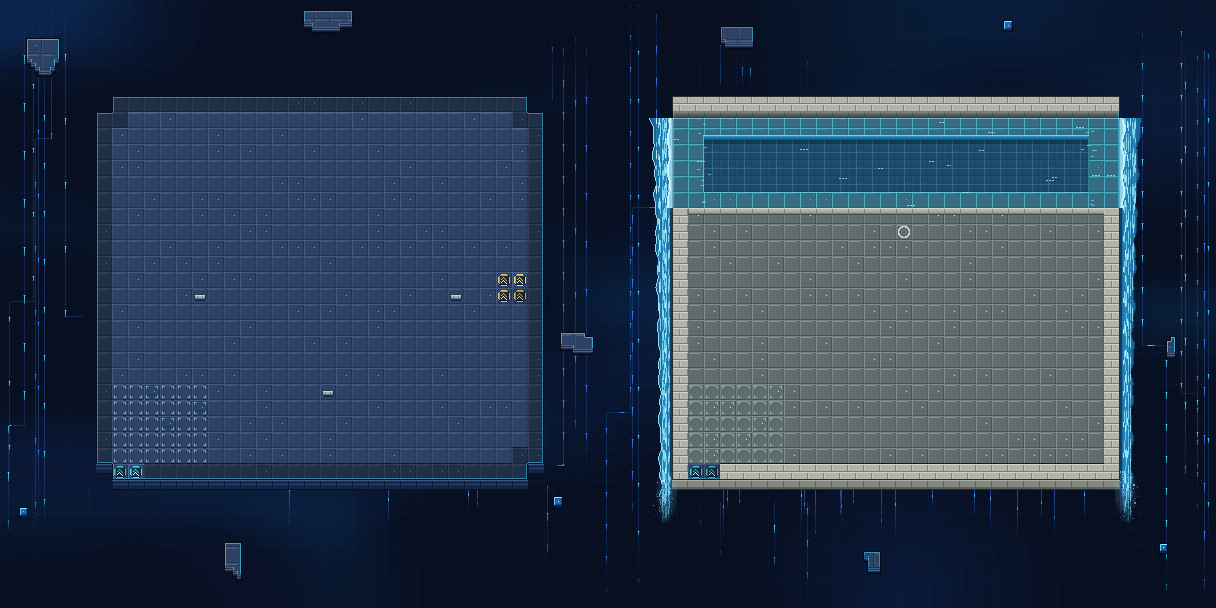
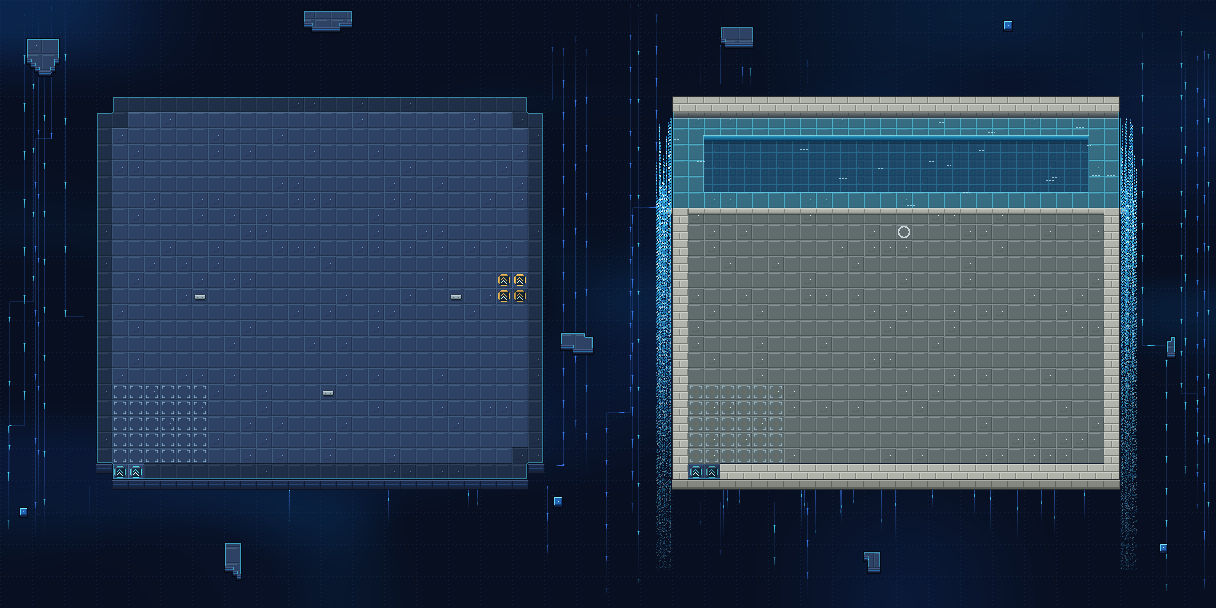
Karte 19: Datenstrom als Ueberlauf an den offenen Beckenseiten (Nutzerwahl)
Claude-Session: https://claude.ai/code/session_01SaoYHKhnro4LFcPJqjaPsq

Changed region(s): [[0.9062, 0.1875, 0.9375, 0.9375], [0.5312, 0.1875, 0.5625, 0.9062]]

diff --git a/tools/karte19_bauen.py b/tools/karte19_bauen.py
@@ -354,7 +354,7 @@ def ueberlauf(a, wasser, land, frame):
                 mix(Y, aussen(d), weiss, 0.9)
 
 
-FALL = os.environ.get('K19_FALL', 'vorhang')
+FALL = os.environ.get('K19_FALL', 'daten')                     # gewaehlt: Datenstrom (Nutzer)
 
 
 def _fall_basis(a, wasser, land):
